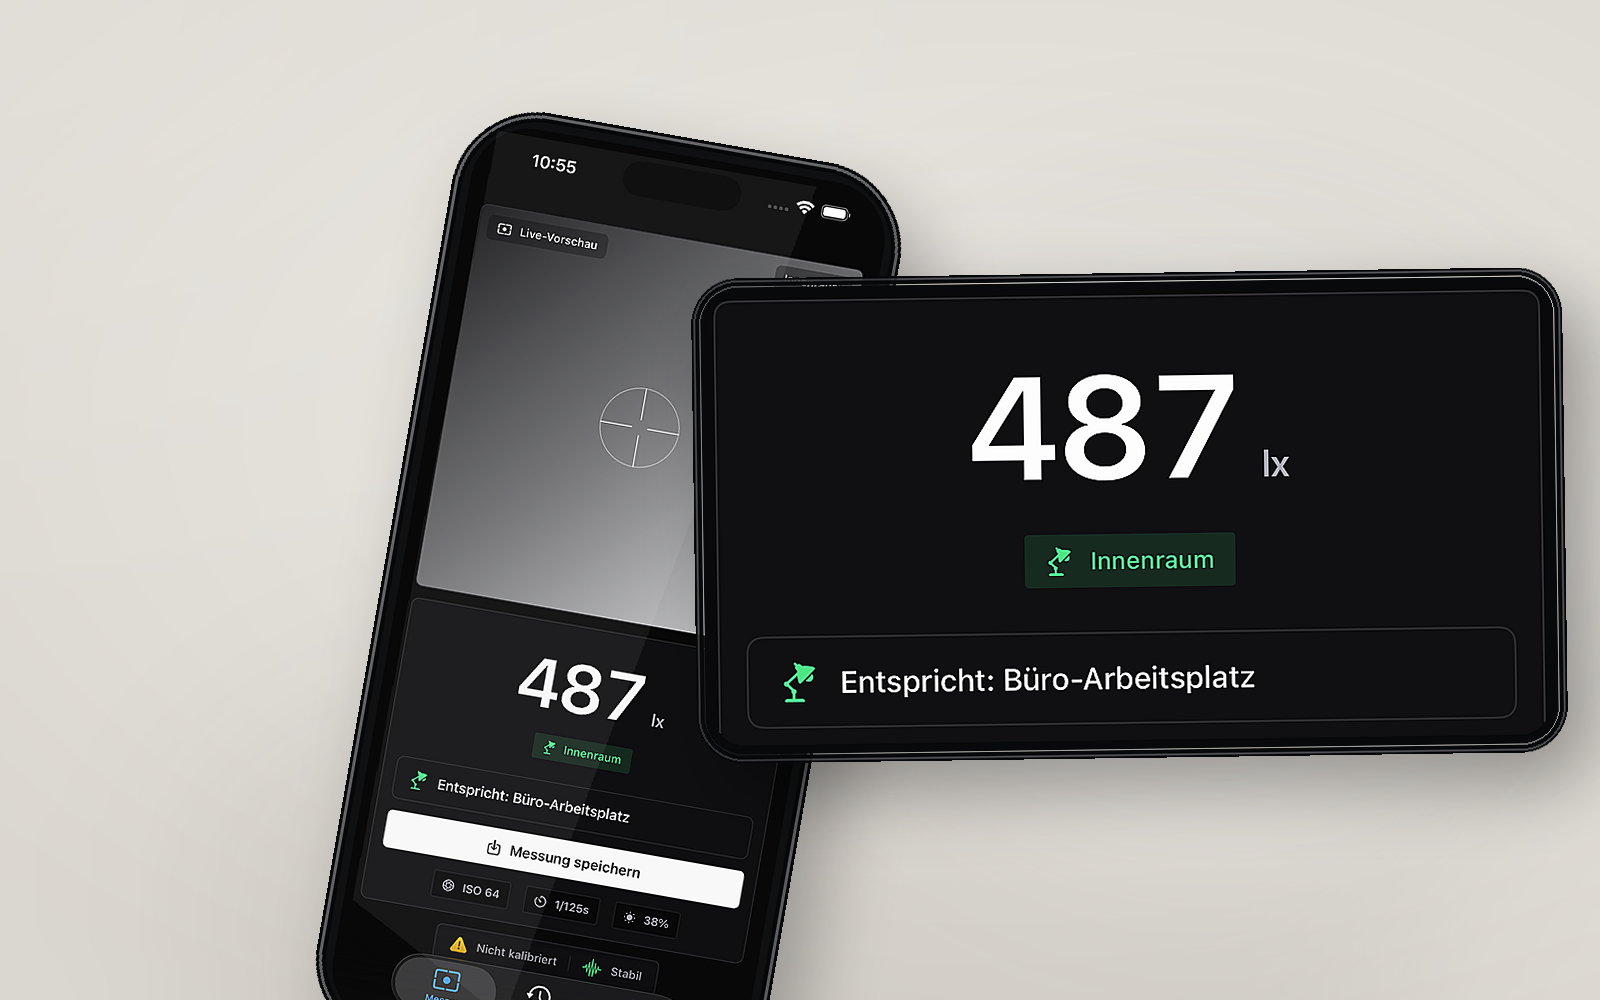
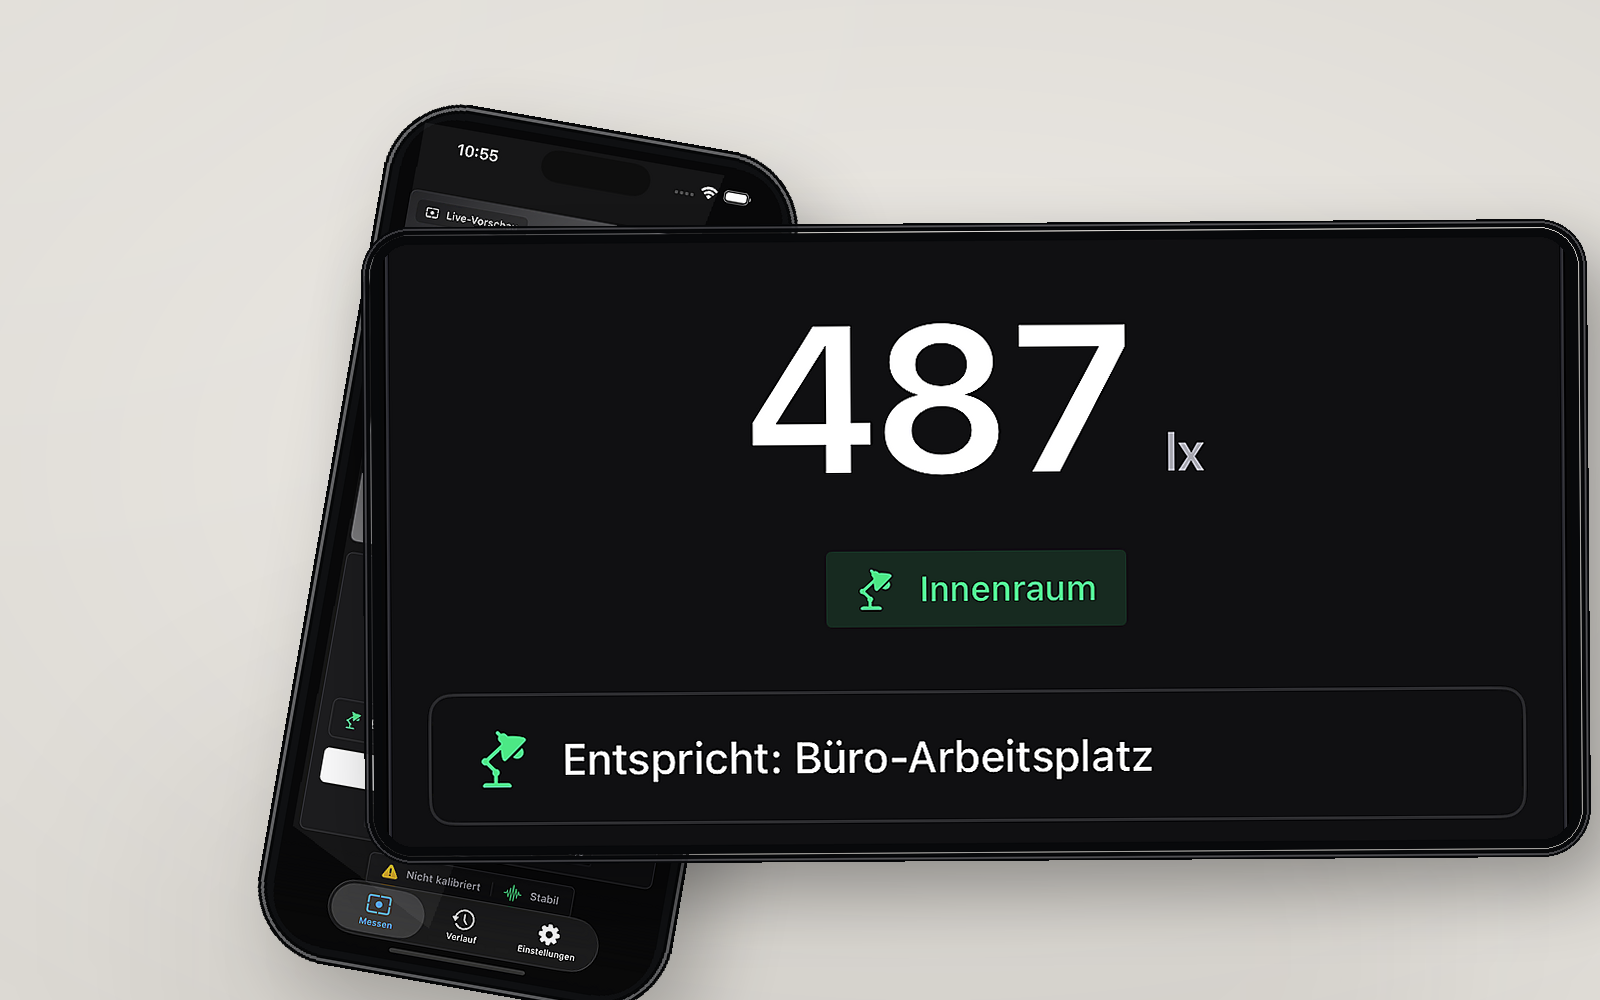
Make LuxMaster thumbnail more readable

Changed region(s): [[0.1562, 0.093, 1.0, 1.0], [0.7812, 0.434, 0.8125, 0.496]]

diff --git a/components/projects.tsx b/components/projects.tsx
@@ -17,6 +17,9 @@ export function ProjectCard({ project }: { project: Project }) {
             src={visual}
             alt={`${project.name} project preview`}
             fill
+            sizes="(min-width: 768px) 540px, calc(100vw - 48px)"
+            quality={project.thumbnail ? 100 : 95}
+            unoptimized={Boolean(project.thumbnail)}
             className="object-cover"
           />
         ) : (
